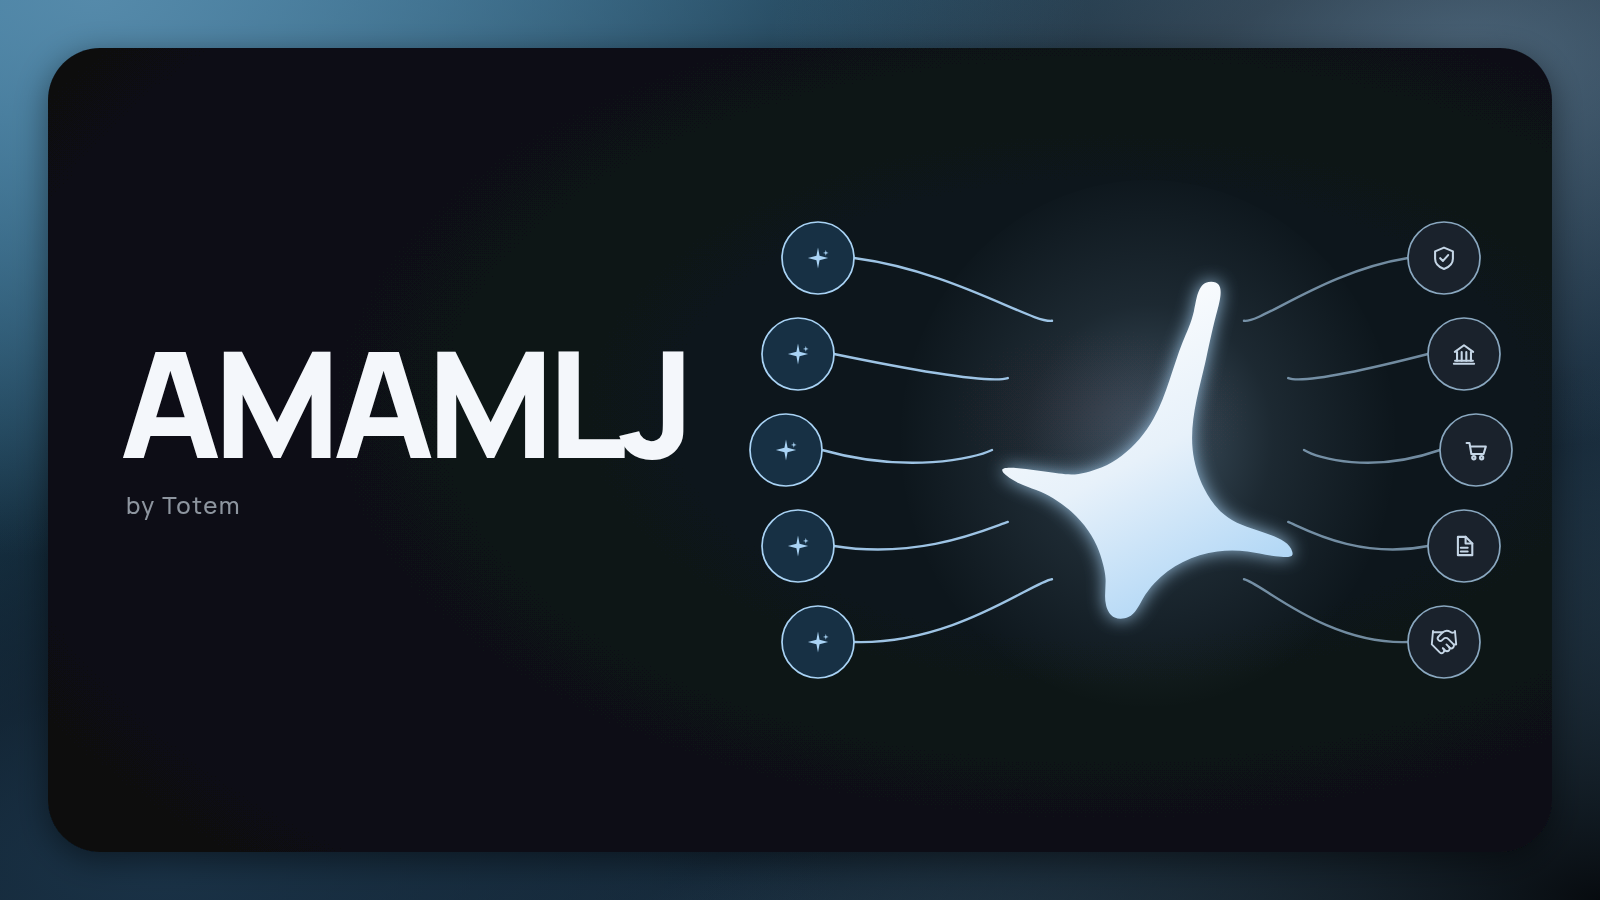
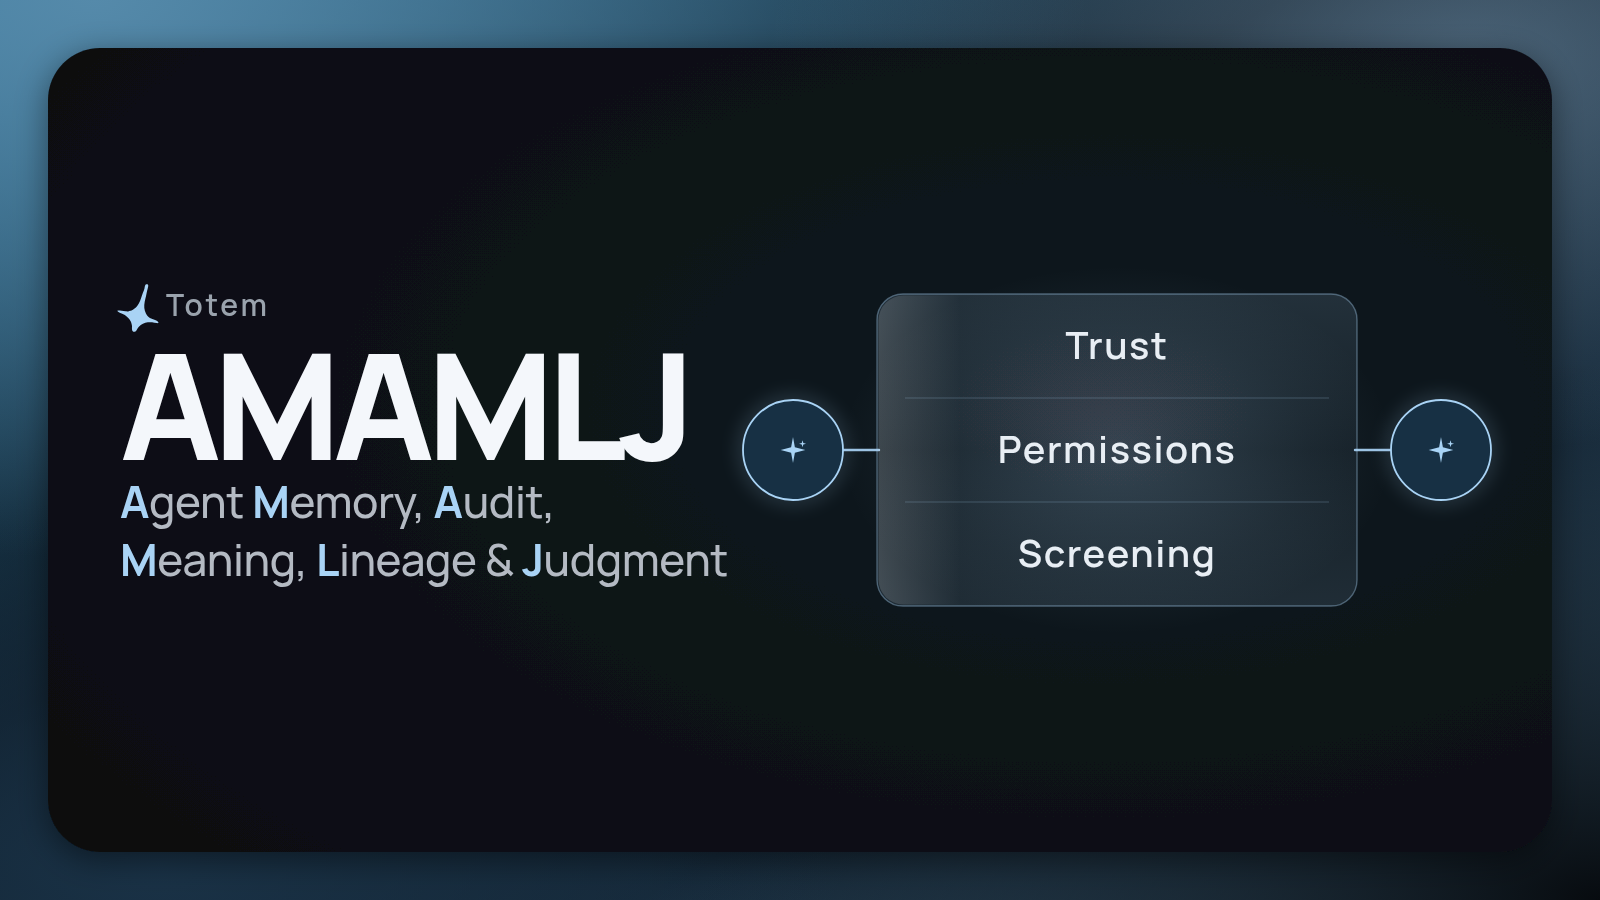
Explain AMAMLJ on the hero thumbnail with a two-agent gate.
Replace the Poppy-like hub-and-spoke with two agent nodes connected
through a glass stack of Trust, Permissions, and Screening. The title
now expands to Agent Memory, Audit, Meaning, Lineage & Judgment with
highlighted initials. Cache-bust assets to v=9 and refresh the 1600x900
poster PNG.

diff --git a/index.html b/index.html
@@ -12,7 +12,7 @@
   <link rel="preconnect" href="https://fonts.googleapis.com">
   <link rel="preconnect" href="https://fonts.gstatic.com" crossorigin>
   <link href="https://fonts.googleapis.com/css2?family=Manrope:wght@300..800&family=Roboto+Mono:wght@400;500&display=swap" rel="stylesheet">
-  <link rel="stylesheet" href="assets/css/styles.css?v=8">
+  <link rel="stylesheet" href="assets/css/styles.css?v=9">
   <style>
     /* Critical hero styles (inlined so a cached stylesheet cannot unstyle this block) */
 /* AMAMLJ overview hero — centered 2-col container above the docs grid */
@@ -185,8 +185,8 @@ Totem</a>
       </div>
       <div class="amj-hero-card">
         <svg class="amj-diagram" viewBox="0 0 1600 900" role="img" aria-labelledby="amj-diagram-title amj-diagram-desc" xmlns="http://www.w3.org/2000/svg">
-          <title id="amj-diagram-title">AMAMLJ</title>
-          <desc id="amj-diagram-desc">The Totem mark at the center, with agents connecting in and services connecting out.</desc>
+          <title id="amj-diagram-title">AMAMLJ — Agent Memory, Audit, Meaning, Lineage &amp; Judgment</title>
+          <desc id="amj-diagram-desc">Two agents connect through Trust, Permissions, and Screening.</desc>
           <defs>
             <linearGradient id="amj-outer" x1="0" y1="0" x2="1" y2="1">
               <stop offset="0%" stop-color="#2a6a8e"/>
@@ -214,18 +214,26 @@ Totem</a>
               <stop offset="0%" stop-color="#12181f"/>
               <stop offset="100%" stop-color="#0a0d11"/>
             </radialGradient>
-            <radialGradient id="amj-logo-aura" cx="50%" cy="48%" r="50%">
-              <stop offset="0%" stop-color="#a9d3f5" stop-opacity="0.32"/>
-              <stop offset="50%" stop-color="#a9d3f5" stop-opacity="0.1"/>
+            <linearGradient id="amj-chamber" x1="0" y1="0" x2="0" y2="1">
+              <stop offset="0%" stop-color="#a9d3f5" stop-opacity="0.14"/>
+              <stop offset="50%" stop-color="#a9d3f5" stop-opacity="0.05"/>
+              <stop offset="100%" stop-color="#a9d3f5" stop-opacity="0.12"/>
+            </linearGradient>
+            <linearGradient id="amj-glass-shine" x1="0" y1="0" x2="1" y2="0">
+              <stop offset="0%" stop-color="#ffffff" stop-opacity="0.16"/>
+              <stop offset="38%" stop-color="#ffffff" stop-opacity="0"/>
+              <stop offset="100%" stop-color="#ffffff" stop-opacity="0"/>
+            </linearGradient>
+            <radialGradient id="amj-stack-glow" cx="50%" cy="50%" r="50%">
+              <stop offset="0%" stop-color="#a9d3f5" stop-opacity="0.20"/>
+              <stop offset="70%" stop-color="#a9d3f5" stop-opacity="0.05"/>
               <stop offset="100%" stop-color="#a9d3f5" stop-opacity="0"/>
             </radialGradient>
-            <linearGradient id="amj-logo-fill" x1="0.3" y1="0" x2="0.75" y2="1">
-              <stop offset="0%" stop-color="#ffffff"/>
-              <stop offset="50%" stop-color="#e7f1fa"/>
-              <stop offset="100%" stop-color="#a9d3f5"/>
-            </linearGradient>
-            <filter id="amj-soft-glow" x="-45%" y="-45%" width="190%" height="190%">
-              <feGaussianBlur stdDeviation="16"/>
+            <filter id="amj-beam-glow" x="-20%" y="-80%" width="140%" height="260%">
+              <feGaussianBlur stdDeviation="8"/>
+            </filter>
+            <filter id="amj-node-glow" x="-50%" y="-50%" width="200%" height="200%">
+              <feGaussianBlur stdDeviation="8"/>
             </filter>
             <filter id="amj-card-shadow" x="-5%" y="-5%" width="110%" height="120%">
               <feDropShadow dx="0" dy="8" stdDeviation="16" flood-color="#000" flood-opacity="0.45"/>
@@ -240,86 +248,48 @@ Totem</a>
 
           <rect x="48" y="48" width="1504" height="804" rx="52" fill="url(#amj-card-fill)" filter="url(#amj-card-shadow)"/>
 
-          <text x="120" y="458" fill="#f4f7fb" font-family="Manrope, ui-sans-serif, system-ui, sans-serif" font-size="148" font-weight="750" letter-spacing="-7.5">AMAMLJ</text>
-          <text x="126" y="514" fill="#8d959f" font-family="Manrope, ui-sans-serif, system-ui, sans-serif" font-size="24" font-weight="500" letter-spacing="1.6">by Totem</text>
+          <g>
+            <g transform="translate(138,308) scale(0.082) translate(-252,-292)">
+              <path d="M348.85 358.41C359.74 380.14 374.44 399.87 397.45 413.01C434.42 434.12 492.86 438.19 500.76 467.23C501.26 469.06 501.55 471 501.05 472.46C499.49 476.98 490.19 476.8 481.52 476.09C460.03 474.35 442.37 469.39 423.66 466.96C406.78 464.77 389.05 464.62 371.74 466.84C330.28 472.16 291.26 491.04 262.99 521.61C255.51 529.7 248.79 538.6 243.13 548.33C235.99 560.62 230.55 574.24 218.09 580.05C211.01 583.35 201.66 584.13 194.71 580.98C186.84 577.42 182.05 568.82 179.8 560.08C175.92 545.03 179.59 529.57 178.82 514.17C178.4 505.8 176.68 497.45 174.6 489.29C171.81 478.33 168.39 467.71 163.86 457.55C144.15 413.33 103.44 377.89 59.2 360.78C49.37 356.98 39.37 354.08 28.55 348.71C18.08 343.5 6.84 335.97 2.62 331.04C-11.91 314.02 56.91 327.76 98.28 332.7C111.31 334.25 121.61 334.94 132.59 333.38C140.94 332.2 149.69 329.72 158.05 327.06C163.07 325.46 167.94 323.79 172.7 321.84C184.64 316.95 195.81 310.26 206.14 302.48C229.04 285.25 247.83 262.64 261.85 237.37C284.67 196.26 294.87 148.08 311.82 105.9C318.58 89.1 326.41 73.25 331.14 52.72C335.59 33.43 337.32 10.01 351.9 3.76C357.12 1.52 363.98 1.48 368.64 3.36C383.67 9.43 375.76 35.44 369.77 58.13C361.36 89.97 356.74 115.27 350.57 142.06C339.67 189.39 323.96 241.35 328.97 291.03C331.34 314.45 338.31 337.37 348.85 358.41Z" fill="#a9d3f5"/>
+            </g>
+            <text x="166" y="316" fill="#9aa3ad" font-family="Manrope, ui-sans-serif, system-ui, sans-serif" font-size="30" font-weight="600" letter-spacing="2.8">Totem</text>
+          </g>
+
+          <text x="120" y="460" fill="#f4f7fb" font-family="Manrope, ui-sans-serif, system-ui, sans-serif" font-size="148" font-weight="750" letter-spacing="-7.5">AMAMLJ</text>
+          <text x="120" y="518" fill="#b4bac3" font-family="Manrope, ui-sans-serif, system-ui, sans-serif" font-size="44" font-weight="500" letter-spacing="-0.4"><tspan fill="#a9d3f5" font-weight="700">A</tspan><tspan>gent </tspan><tspan fill="#a9d3f5" font-weight="700">M</tspan><tspan>emory, </tspan><tspan fill="#a9d3f5" font-weight="700">A</tspan><tspan>udit,</tspan></text>
+          <text x="120" y="576" fill="#b4bac3" font-family="Manrope, ui-sans-serif, system-ui, sans-serif" font-size="44" font-weight="500" letter-spacing="-0.4"><tspan fill="#a9d3f5" font-weight="700">M</tspan><tspan>eaning, </tspan><tspan fill="#a9d3f5" font-weight="700">L</tspan><tspan>ineage &amp; </tspan><tspan fill="#a9d3f5" font-weight="700">J</tspan><tspan>udgment</tspan></text>
+
+          <ellipse cx="1117.0" cy="450" rx="276.0" ry="184.0" fill="url(#amj-stack-glow)"/>
 
           <g>
-            <path d="M854.0,258.0 C953.0,271.0 1032.2,323.6 1052.0,320.8" fill="none" stroke="#a9d3f5" stroke-width="2.4" stroke-linecap="round" stroke-opacity="0.92"/>
-            <path d="M834.0,354.0 C920.9,371.9 990.4,383.7 1007.8,378.1" fill="none" stroke="#a9d3f5" stroke-width="2.4" stroke-linecap="round" stroke-opacity="0.92"/>
-            <path d="M822.0,450.0 C907.0,474.0 975.0,458.4 992.0,450.0" fill="none" stroke="#a9d3f5" stroke-width="2.4" stroke-linecap="round" stroke-opacity="0.92"/>
-            <path d="M834.0,546.0 C920.9,560.1 990.4,527.5 1007.8,521.9" fill="none" stroke="#a9d3f5" stroke-width="2.4" stroke-linecap="round" stroke-opacity="0.92"/>
-            <path d="M854.0,642.0 C953.0,645.0 1032.2,582.0 1052.0,579.2" fill="none" stroke="#a9d3f5" stroke-width="2.4" stroke-linecap="round" stroke-opacity="0.92"/>
+            <line x1="843" y1="450" x2="879" y2="450" stroke="#a9d3f5" stroke-width="16" stroke-linecap="round" opacity="0.22" filter="url(#amj-beam-glow)"/>
+            <line x1="1355" y1="450" x2="1391" y2="450" stroke="#a9d3f5" stroke-width="16" stroke-linecap="round" opacity="0.22" filter="url(#amj-beam-glow)"/>
+            <line x1="843" y1="450" x2="879" y2="450" stroke="#a9d3f5" stroke-width="2.4" stroke-linecap="round" stroke-opacity="0.92"/>
+            <line x1="1355" y1="450" x2="1391" y2="450" stroke="#a9d3f5" stroke-width="2.4" stroke-linecap="round" stroke-opacity="0.92"/>
+          </g>
+
+          <g>
+            <rect x="877" y="294.0" width="480" height="312" rx="26" fill="url(#amj-chamber)" stroke="#a9d3f5" stroke-opacity="0.38" stroke-width="1.4"/>
+            <rect x="878.5" y="295.5" width="216.0" height="309" rx="25" fill="url(#amj-glass-shine)" pointer-events="none"/>
+            <line x1="905" y1="398.0" x2="1329" y2="398.0" stroke="#a9d3f5" stroke-opacity="0.25" stroke-width="1"/>
+            <line x1="905" y1="502.0" x2="1329" y2="502.0" stroke="#a9d3f5" stroke-opacity="0.25" stroke-width="1"/>
+            <text x="1117.0" y="359.0" text-anchor="middle" fill="#e8eef4" font-family="Manrope, ui-sans-serif, system-ui, sans-serif" font-size="38" font-weight="600" letter-spacing="1.5">Trust</text>
+            <text x="1117.0" y="463.0" text-anchor="middle" fill="#e8eef4" font-family="Manrope, ui-sans-serif, system-ui, sans-serif" font-size="38" font-weight="600" letter-spacing="1.5">Permissions</text>
+            <text x="1117.0" y="567.0" text-anchor="middle" fill="#e8eef4" font-family="Manrope, ui-sans-serif, system-ui, sans-serif" font-size="38" font-weight="600" letter-spacing="1.5">Screening</text>
+          </g>
+
+          <g>
+            <circle cx="793" cy="450" r="58" fill="#a9d3f5" opacity="0.12" filter="url(#amj-node-glow)"/>
+            <circle cx="793" cy="450" r="50" fill="#173044" stroke="#a9d3f5" stroke-width="1.8"/>
+            <g transform="translate(776.20,433.20) scale(1.4)"><path d="M12 2.8 13.35 10.1 20.8 12 13.35 13.9 12 21.2 10.65 13.9 3.2 12 10.65 10.1Z" fill="#a9d3f5"/>
+        <path d="M18.8 5.1 19.35 7.05 21.3 7.6 19.35 8.15 18.8 10.1 18.25 8.15 16.3 7.6 18.25 7.05Z" fill="#a9d3f5"/></g>
           </g>
           <g>
-            <path d="M1408.0,258.0 C1326.0,271.0 1260.4,323.6 1244.0,320.8" fill="none" stroke="#7f9cb3" stroke-width="2.4" stroke-linecap="round" stroke-opacity="0.88"/>
-            <path d="M1428.0,354.0 C1358.1,371.9 1302.2,383.7 1288.2,378.1" fill="none" stroke="#7f9cb3" stroke-width="2.4" stroke-linecap="round" stroke-opacity="0.88"/>
-            <path d="M1440.0,450.0 C1372.0,474.0 1317.6,458.4 1304.0,450.0" fill="none" stroke="#7f9cb3" stroke-width="2.4" stroke-linecap="round" stroke-opacity="0.88"/>
-            <path d="M1428.0,546.0 C1358.1,560.1 1302.2,527.5 1288.2,521.9" fill="none" stroke="#7f9cb3" stroke-width="2.4" stroke-linecap="round" stroke-opacity="0.88"/>
-            <path d="M1408.0,642.0 C1326.0,645.0 1260.4,582.0 1244.0,579.2" fill="none" stroke="#7f9cb3" stroke-width="2.4" stroke-linecap="round" stroke-opacity="0.88"/>
+            <circle cx="1441" cy="450" r="58" fill="#a9d3f5" opacity="0.12" filter="url(#amj-node-glow)"/>
+            <circle cx="1441" cy="450" r="50" fill="#173044" stroke="#a9d3f5" stroke-width="1.8"/>
+            <g transform="translate(1424.20,433.20) scale(1.4)"><path d="M12 2.8 13.35 10.1 20.8 12 13.35 13.9 12 21.2 10.65 13.9 3.2 12 10.65 10.1Z" fill="#a9d3f5"/>
+        <path d="M18.8 5.1 19.35 7.05 21.3 7.6 19.35 8.15 18.8 10.1 18.25 8.15 16.3 7.6 18.25 7.05Z" fill="#a9d3f5"/></g>
           </g>
-
-          <ellipse cx="1148" cy="450" rx="250" ry="270" fill="url(#amj-logo-aura)"/>
-          <g transform="translate(1148,450) scale(0.58) translate(-252,-292)">
-            <path d="M348.85 358.41C359.74 380.14 374.44 399.87 397.45 413.01C434.42 434.12 492.86 438.19 500.76 467.23C501.26 469.06 501.55 471 501.05 472.46C499.49 476.98 490.19 476.8 481.52 476.09C460.03 474.35 442.37 469.39 423.66 466.96C406.78 464.77 389.05 464.62 371.74 466.84C330.28 472.16 291.26 491.04 262.99 521.61C255.51 529.7 248.79 538.6 243.13 548.33C235.99 560.62 230.55 574.24 218.09 580.05C211.01 583.35 201.66 584.13 194.71 580.98C186.84 577.42 182.05 568.82 179.8 560.08C175.92 545.03 179.59 529.57 178.82 514.17C178.4 505.8 176.68 497.45 174.6 489.29C171.81 478.33 168.39 467.71 163.86 457.55C144.15 413.33 103.44 377.89 59.2 360.78C49.37 356.98 39.37 354.08 28.55 348.71C18.08 343.5 6.84 335.97 2.62 331.04C-11.91 314.02 56.91 327.76 98.28 332.7C111.31 334.25 121.61 334.94 132.59 333.38C140.94 332.2 149.69 329.72 158.05 327.06C163.07 325.46 167.94 323.79 172.7 321.84C184.64 316.95 195.81 310.26 206.14 302.48C229.04 285.25 247.83 262.64 261.85 237.37C284.67 196.26 294.87 148.08 311.82 105.9C318.58 89.1 326.41 73.25 331.14 52.72C335.59 33.43 337.32 10.01 351.9 3.76C357.12 1.52 363.98 1.48 368.64 3.36C383.67 9.43 375.76 35.44 369.77 58.13C361.36 89.97 356.74 115.27 350.57 142.06C339.67 189.39 323.96 241.35 328.97 291.03C331.34 314.45 338.31 337.37 348.85 358.41Z" fill="#a9d3f5" filter="url(#amj-soft-glow)" opacity="0.85"/>
-            <path d="M348.85 358.41C359.74 380.14 374.44 399.87 397.45 413.01C434.42 434.12 492.86 438.19 500.76 467.23C501.26 469.06 501.55 471 501.05 472.46C499.49 476.98 490.19 476.8 481.52 476.09C460.03 474.35 442.37 469.39 423.66 466.96C406.78 464.77 389.05 464.62 371.74 466.84C330.28 472.16 291.26 491.04 262.99 521.61C255.51 529.7 248.79 538.6 243.13 548.33C235.99 560.62 230.55 574.24 218.09 580.05C211.01 583.35 201.66 584.13 194.71 580.98C186.84 577.42 182.05 568.82 179.8 560.08C175.92 545.03 179.59 529.57 178.82 514.17C178.4 505.8 176.68 497.45 174.6 489.29C171.81 478.33 168.39 467.71 163.86 457.55C144.15 413.33 103.44 377.89 59.2 360.78C49.37 356.98 39.37 354.08 28.55 348.71C18.08 343.5 6.84 335.97 2.62 331.04C-11.91 314.02 56.91 327.76 98.28 332.7C111.31 334.25 121.61 334.94 132.59 333.38C140.94 332.2 149.69 329.72 158.05 327.06C163.07 325.46 167.94 323.79 172.7 321.84C184.64 316.95 195.81 310.26 206.14 302.48C229.04 285.25 247.83 262.64 261.85 237.37C284.67 196.26 294.87 148.08 311.82 105.9C318.58 89.1 326.41 73.25 331.14 52.72C335.59 33.43 337.32 10.01 351.9 3.76C357.12 1.52 363.98 1.48 368.64 3.36C383.67 9.43 375.76 35.44 369.77 58.13C361.36 89.97 356.74 115.27 350.57 142.06C339.67 189.39 323.96 241.35 328.97 291.03C331.34 314.45 338.31 337.37 348.85 358.41Z" fill="url(#amj-logo-fill)"/>
-          </g>
-
-            <g>
-              <circle cx="818" cy="258" r="36" fill="#173044" stroke="#a9d3f5" stroke-width="1.7"/>
-              <g transform="translate(804.20,244.20) scale(1.15)"><path d="M12 2.8 13.35 10.1 20.8 12 13.35 13.9 12 21.2 10.65 13.9 3.2 12 10.65 10.1Z" fill="#a9d3f5"/>
-        <path d="M18.8 5.1 19.35 7.05 21.3 7.6 19.35 8.15 18.8 10.1 18.25 8.15 16.3 7.6 18.25 7.05Z" fill="#a9d3f5"/></g>
-            </g>
-            <g>
-              <circle cx="798" cy="354" r="36" fill="#173044" stroke="#a9d3f5" stroke-width="1.7"/>
-              <g transform="translate(784.20,340.20) scale(1.15)"><path d="M12 2.8 13.35 10.1 20.8 12 13.35 13.9 12 21.2 10.65 13.9 3.2 12 10.65 10.1Z" fill="#a9d3f5"/>
-        <path d="M18.8 5.1 19.35 7.05 21.3 7.6 19.35 8.15 18.8 10.1 18.25 8.15 16.3 7.6 18.25 7.05Z" fill="#a9d3f5"/></g>
-            </g>
-            <g>
-              <circle cx="786" cy="450" r="36" fill="#173044" stroke="#a9d3f5" stroke-width="1.7"/>
-              <g transform="translate(772.20,436.20) scale(1.15)"><path d="M12 2.8 13.35 10.1 20.8 12 13.35 13.9 12 21.2 10.65 13.9 3.2 12 10.65 10.1Z" fill="#a9d3f5"/>
-        <path d="M18.8 5.1 19.35 7.05 21.3 7.6 19.35 8.15 18.8 10.1 18.25 8.15 16.3 7.6 18.25 7.05Z" fill="#a9d3f5"/></g>
-            </g>
-            <g>
-              <circle cx="798" cy="546" r="36" fill="#173044" stroke="#a9d3f5" stroke-width="1.7"/>
-              <g transform="translate(784.20,532.20) scale(1.15)"><path d="M12 2.8 13.35 10.1 20.8 12 13.35 13.9 12 21.2 10.65 13.9 3.2 12 10.65 10.1Z" fill="#a9d3f5"/>
-        <path d="M18.8 5.1 19.35 7.05 21.3 7.6 19.35 8.15 18.8 10.1 18.25 8.15 16.3 7.6 18.25 7.05Z" fill="#a9d3f5"/></g>
-            </g>
-            <g>
-              <circle cx="818" cy="642" r="36" fill="#173044" stroke="#a9d3f5" stroke-width="1.7"/>
-              <g transform="translate(804.20,628.20) scale(1.15)"><path d="M12 2.8 13.35 10.1 20.8 12 13.35 13.9 12 21.2 10.65 13.9 3.2 12 10.65 10.1Z" fill="#a9d3f5"/>
-        <path d="M18.8 5.1 19.35 7.05 21.3 7.6 19.35 8.15 18.8 10.1 18.25 8.15 16.3 7.6 18.25 7.05Z" fill="#a9d3f5"/></g>
-            </g>
-            <g>
-              <circle cx="1444" cy="258" r="36" fill="#1a222c" stroke="#8aa8c0" stroke-width="1.7"/>
-              <g transform="translate(1429.36,243.36) scale(1.22)"><path d="M12 3.5 19.3 6.6v6c0 4.05-3.15 6.9-7.3 8.4-4.15-1.5-7.3-4.35-7.3-8.4v-6Z" stroke="#c5d6e6" stroke-width="1.7" stroke-linecap="round" stroke-linejoin="round" fill="none"/>
-        <path d="M8.9 12.15 11.15 14.4 15.4 9.6" stroke="#c5d6e6" stroke-width="1.7" stroke-linecap="round" stroke-linejoin="round" fill="none"/></g>
-            </g>
-            <g>
-              <circle cx="1464" cy="354" r="36" fill="#1a222c" stroke="#8aa8c0" stroke-width="1.7"/>
-              <g transform="translate(1449.36,339.36) scale(1.22)"><path d="M4.5 10.3 12 4.8l7.5 5.5" stroke="#c5d6e6" stroke-width="1.7" stroke-linecap="round" stroke-linejoin="round" fill="none"/>
-        <path d="M6.3 10.3v7.3M10.1 10.3v7.3M13.9 10.3v7.3M17.7 10.3v7.3" stroke="#c5d6e6" stroke-width="1.7" stroke-linecap="round" stroke-linejoin="round" fill="none"/>
-        <path d="M4.7 17.6h14.6M3.7 20h16.6" stroke="#c5d6e6" stroke-width="1.7" stroke-linecap="round" stroke-linejoin="round" fill="none"/></g>
-            </g>
-            <g>
-              <circle cx="1476" cy="450" r="36" fill="#1a222c" stroke="#8aa8c0" stroke-width="1.7"/>
-              <g transform="translate(1461.36,435.36) scale(1.22)"><path d="M4.3 6.3h2.4l1.5 9h10l1.85-6.1H8.3" stroke="#c5d6e6" stroke-width="1.7" stroke-linecap="round" stroke-linejoin="round" fill="none"/>
-        <circle cx="10.2" cy="18.35" r="1.35" stroke="#c5d6e6" stroke-width="1.7" stroke-linecap="round" stroke-linejoin="round" fill="none"/>
-        <circle cx="16.6" cy="18.35" r="1.35" stroke="#c5d6e6" stroke-width="1.7" stroke-linecap="round" stroke-linejoin="round" fill="none"/></g>
-            </g>
-            <g>
-              <circle cx="1464" cy="546" r="36" fill="#1a222c" stroke="#8aa8c0" stroke-width="1.7"/>
-              <g transform="translate(1449.36,531.36) scale(1.22)"><path d="M7 4.5h6.3L18.8 10v9.5H7Z" stroke="#c5d6e6" stroke-width="1.7" stroke-linecap="round" stroke-linejoin="round" fill="none"/>
-        <path d="M13.3 4.5V10h5.5" stroke="#c5d6e6" stroke-width="1.7" stroke-linecap="round" stroke-linejoin="round" fill="none"/>
-        <path d="M9.4 13.5h5.6M9.4 16.5h5.6" stroke="#c5d6e6" stroke-width="1.7" stroke-linecap="round" stroke-linejoin="round" fill="none"/></g>
-            </g>
-            <g>
-              <circle cx="1444" cy="642" r="36" fill="#1a222c" stroke="#8aa8c0" stroke-width="1.7"/>
-              <g transform="translate(1429.36,627.36) scale(1.22)"><path d="m11 17 2 2a1 1 0 1 0 3-3" stroke="#c5d6e6" stroke-width="1.55" stroke-linecap="round" stroke-linejoin="round" fill="none"/>
-        <path d="m14 14 2.5 2.5a1 1 0 1 0 3-3l-3.88-3.88a3 3 0 0 0-4.24 0l-.88.88a1 1 0 1 1-3-3l2.81-2.81a5.79 5.79 0 0 1 7.06-.87l.47.28a2 2 0 0 0 1.42.25L21 4" stroke="#c5d6e6" stroke-width="1.55" stroke-linecap="round" stroke-linejoin="round" fill="none"/>
-        <path d="m21 3 1 11h-2" stroke="#c5d6e6" stroke-width="1.55" stroke-linecap="round" stroke-linejoin="round" fill="none"/>
-        <path d="M3 3 2 14l6.5 6.5a1 1 0 1 0 3-3" stroke="#c5d6e6" stroke-width="1.55" stroke-linecap="round" stroke-linejoin="round" fill="none"/>
-        <path d="M3 4h8" stroke="#c5d6e6" stroke-width="1.55" stroke-linecap="round" stroke-linejoin="round" fill="none"/></g>
-            </g>
         </svg>
       </div>      </div>
     </div>
@@ -956,6 +926,6 @@ Totem</a>
     <aside class="docs-right-rail"><nav class="docs-outline" aria-label="On this page"><p>On this page</p></nav></aside>
   </div>
 </div>
-<script src="assets/js/site.js?v=8"></script>
+<script src="assets/js/site.js?v=9"></script>
 </body>
 </html>

diff --git a/spec/index.html b/spec/index.html
@@ -12,7 +12,7 @@
   <link rel="preconnect" href="https://fonts.googleapis.com">
   <link rel="preconnect" href="https://fonts.gstatic.com" crossorigin>
   <link href="https://fonts.googleapis.com/css2?family=Manrope:wght@300..800&family=Roboto+Mono:wght@400;500&display=swap" rel="stylesheet">
-  <link rel="stylesheet" href="../assets/css/styles.css?v=8">
+  <link rel="stylesheet" href="../assets/css/styles.css?v=9">
 </head>
 <body>
 <div class="docs-site">
@@ -508,6 +508,6 @@ Totem</a>
     <aside class="docs-right-rail"><nav class="docs-outline" aria-label="On this page"><p>On this page</p></nav></aside>
   </div>
 </div>
-<script src="../assets/js/site.js?v=8"></script>
+<script src="../assets/js/site.js?v=9"></script>
 </body>
 </html>

diff --git a/start/index.html b/start/index.html
@@ -12,7 +12,7 @@
   <link rel="preconnect" href="https://fonts.googleapis.com">
   <link rel="preconnect" href="https://fonts.gstatic.com" crossorigin>
   <link href="https://fonts.googleapis.com/css2?family=Manrope:wght@300..800&family=Roboto+Mono:wght@400;500&display=swap" rel="stylesheet">
-  <link rel="stylesheet" href="../assets/css/styles.css?v=8">
+  <link rel="stylesheet" href="../assets/css/styles.css?v=9">
 </head>
 <body>
 <div class="docs-site">
@@ -210,6 +210,6 @@ Totem</a>
     <aside class="docs-right-rail"><nav class="docs-outline" aria-label="On this page"><p>On this page</p></nav></aside>
   </div>
 </div>
-<script src="../assets/js/site.js?v=8"></script>
+<script src="../assets/js/site.js?v=9"></script>
 </body>
 </html>
